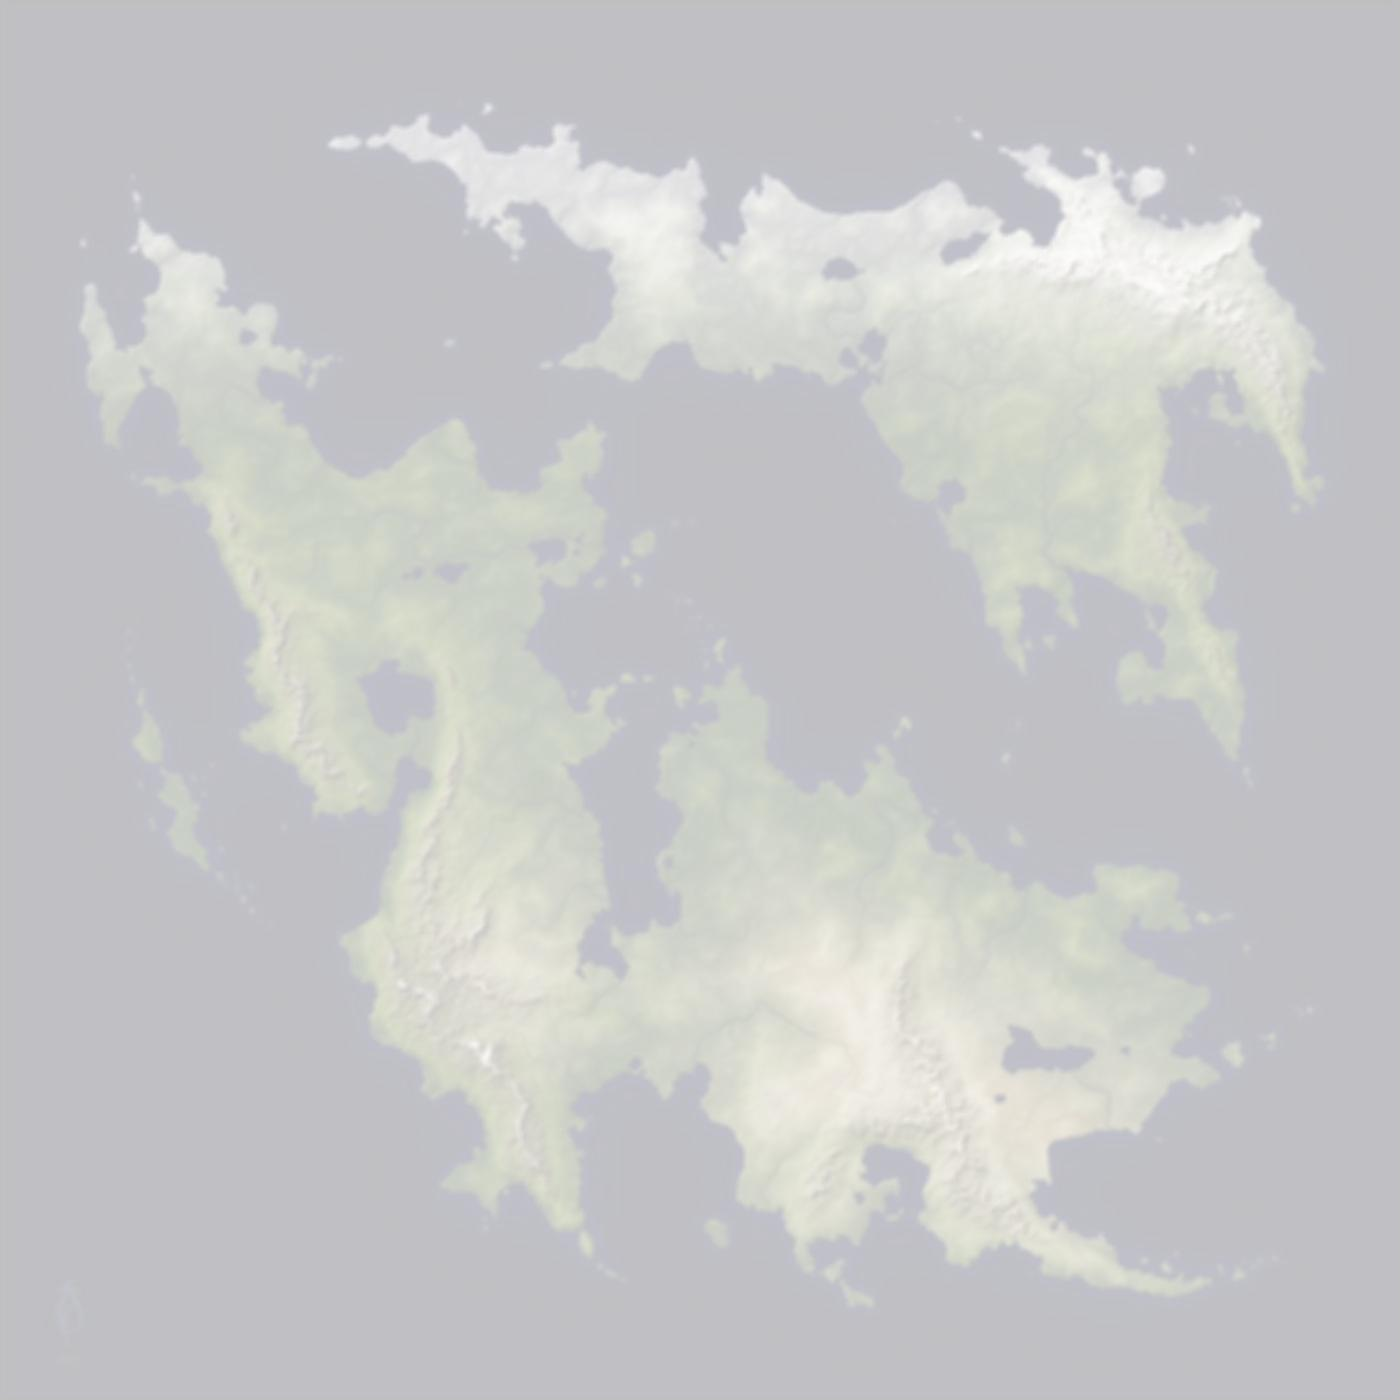
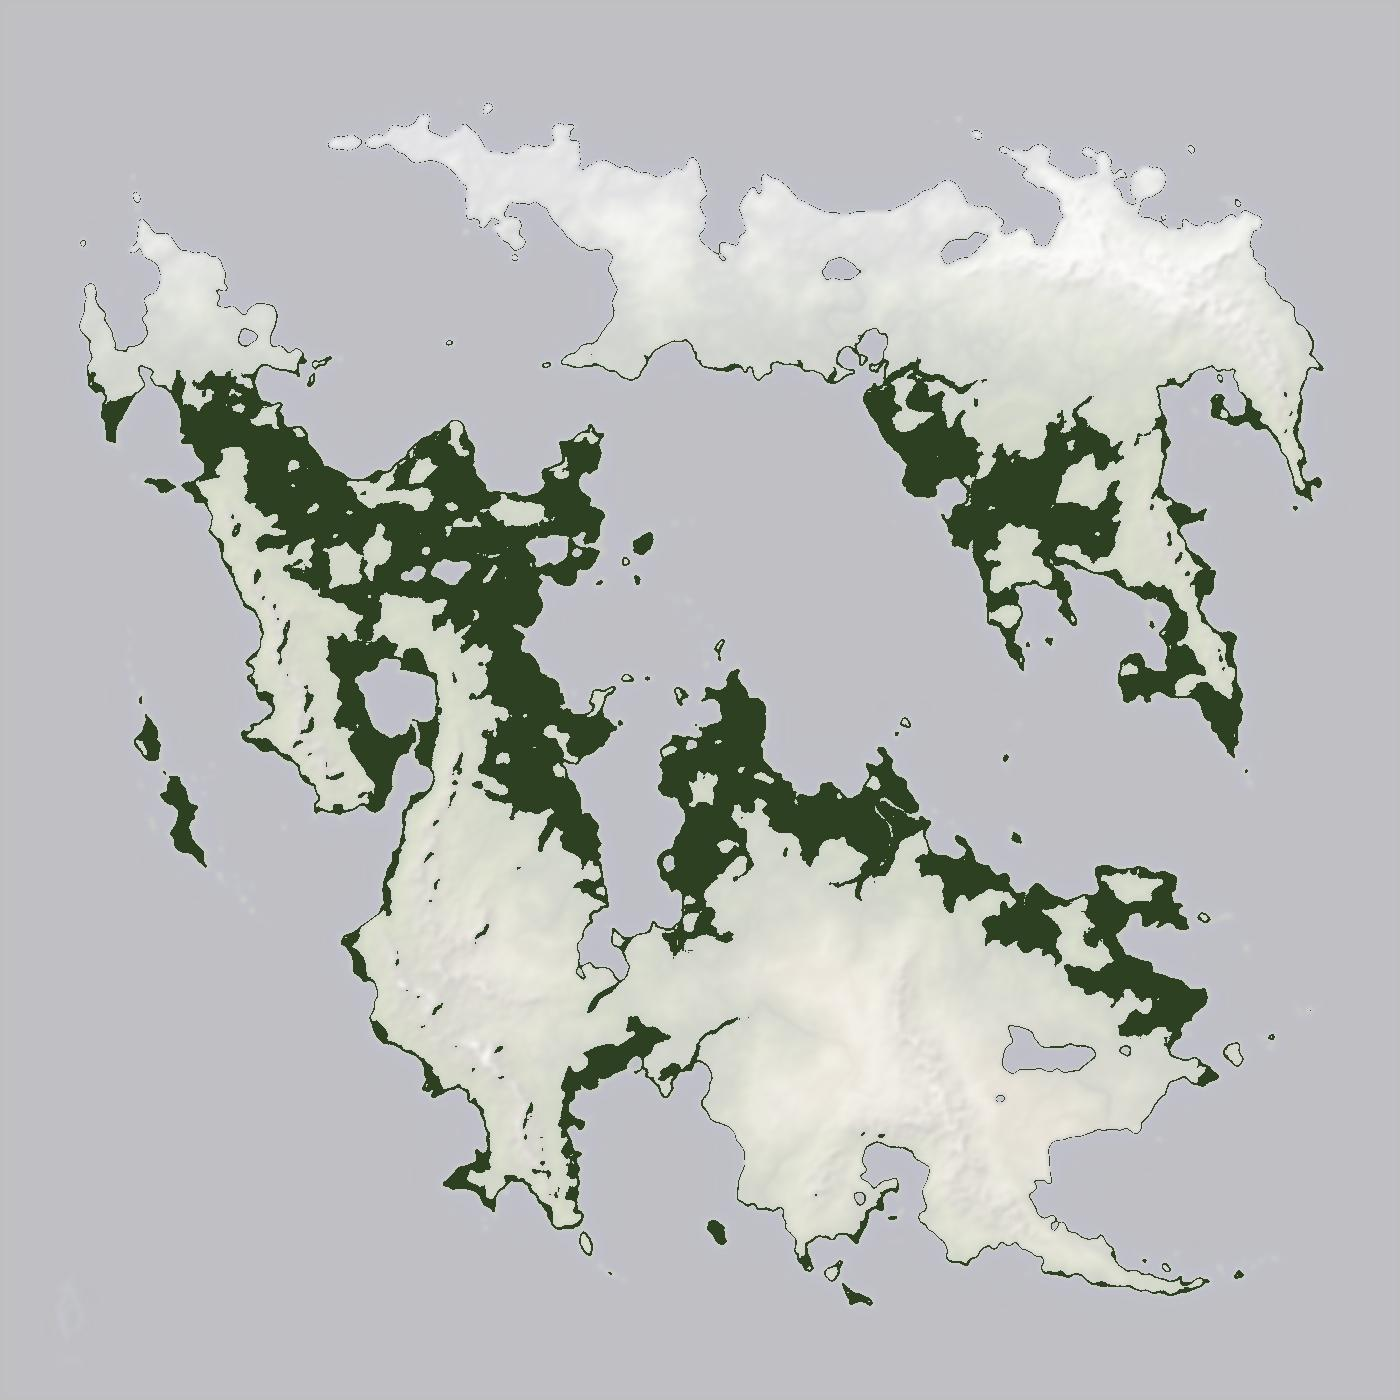
update

diff --git a/SAÉ/src/Algorithmes/ImageClustering.java b/SAÉ/src/Algorithmes/ImageClustering.java
@@ -2,6 +2,9 @@ package Algorithmes;
 
 import Algorithmes.ComparaisonsCouleurs.NormeCielab;
 import Algorithmes.ComparaisonsCouleurs.NormeCouleurs;
+import Pretraitement.Flou;
+import Pretraitement.FlouGaussien;
+
 import java.awt.*;
 import java.awt.image.BufferedImage;
 import java.io.File;
@@ -184,19 +187,22 @@ public class ImageClustering {
 
     public static void main(String[] args) {
         try {
-            File file = new File("img/Pretraitement/Planete 1_flouteeGaussien7_3.jpg");
+            File file = new File("img/Planete 1.jpg");
             BufferedImage image = ImageIO.read(file);
 
-            double[][] featureArray = imageToFeatureArray(image);
+            Flou flouGaussien7_3 = new FlouGaussien(7, 3.0);
+            BufferedImage flou = flouGaussien7_3.appliquer(image);
+
+            double[][] featureArray = imageToFeatureArray(flou);
 
             int nClusters = 10;
             AlgoClustering algorithm = new KMeansClustering();
             int[] labels = algorithm.clustering(featureArray, nClusters);
 
             NormeCouleurs normeCouleurs = new NormeCielab();
-            BufferedImage brightenedImage = createBrightenedImage(image, 0.75);
+            BufferedImage brightenedImage = createBrightenedImage(flou, 0.75);
 
-            createBiomeImages(image, brightenedImage, labels, nClusters, normeCouleurs);
+            createBiomeImages(flou, brightenedImage, labels, nClusters, normeCouleurs);
 
         } catch (IOException e) {
             e.printStackTrace();
